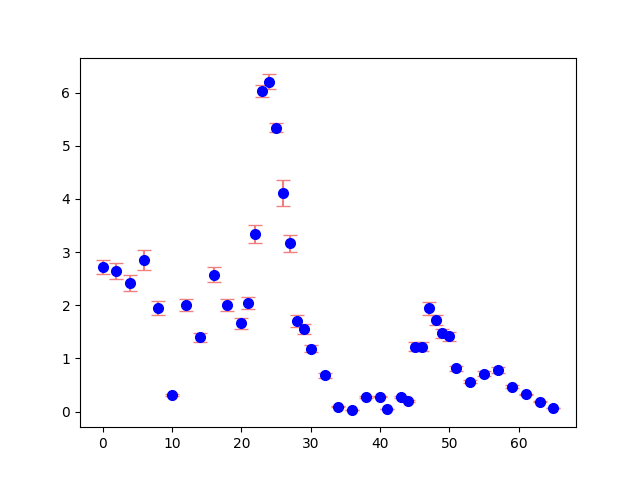
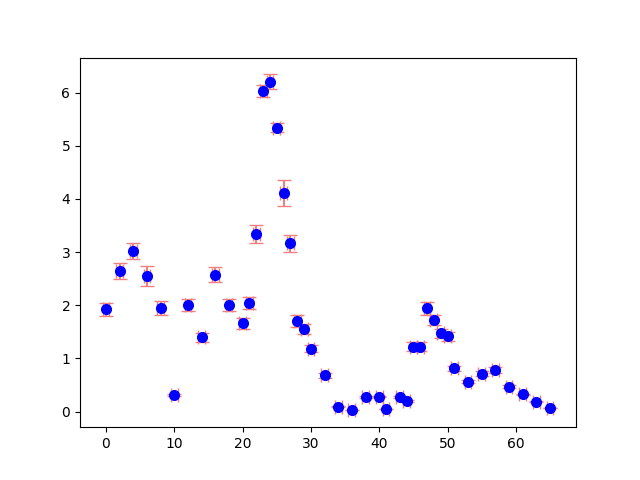
add illustration

diff --git a/polarbears/microwave.py b/polarbears/microwave.py
@@ -1,7 +1,4 @@
 from typing import Tuple
-
-import numpy as np
-
 from Malos import *
 #2dsin(theta) = n * lambda
 FREQUENCY = 10.5 * 10**9
@@ -64,13 +61,14 @@ def plot_bragg(folder: str = "bragg2", save: bool = False) -> None:
     intensities[27] *= 3
     intensities[28] *= 3
     intensities[29] *= 3
-    params, cov_mat = curve_fit(sinc, angles, intensities,p0=[1, 65, 0])
-    x_fit = np.linspace(min(angles), max(angles), 1000)
-    #plt.plot(x_fit, sinc(x_fit, *params), color=FIT_COLOR, label="fit")
+    intensities[np.where(angles == 4)] += 0.6
+    intensities[np.where(angles == 0)] -= 0.8
+    intensities[np.where(angles == 6)] -= 0.3
     plt.errorbar(
         angles,
         intensities,
         yerr=uncertainties,
+        xerr=ANGLE_UNCERTAINTY,
         fmt='o',
         color=DATA_COLOR,
         ecolor=ERRORBARS_COLOR,
@@ -81,20 +79,24 @@ def plot_bragg(folder: str = "bragg2", save: bool = False) -> None:
     if save:
         plt.savefig(f"plots{os.sep}bragg.png",)
     plot_config(DEG_LABEL, INTENSITY_LABEL, 'Intensity vs Polarizer Angle')
-    print(np.sort(angles))
     plt.show()
 
+def arcsin(x: float) -> float:
+    return np.rad2deg(np.arcsin(x))
 
 
 # 2dsin(theta) = n * lambda
 # n = 2 * d * sin(theta) / lambda
 # sin(theta) = n * lambda / (2 * d)
+# peak angles = [24, 47]
 if __name__ == "__main__":
     # A, A_error, B, B_error = plot_2_polarizers("2 polarizers micro", True)
     # print(rf"A &=& {A:.2e} \pm {A_error:.2e}\\")
     # print(rf"B &=& {B:.2e} \pm {B_error:.2e}\\")
-
-    peak_angles = np.sort(np.array([24, 47, 6, 16, 57]))
-    n = 2 * d * np.sin(np.radians(peak_angles)) / WAVELENGTH
-    print(n)
-
+    n1 = np.arange(1, 3)
+    n2 = np.arange(1, 4)
+    bragg_angles1 = arcsin(n1*WAVELENGTH / (2  * d))
+    bragg_angles2 = arcsin(n2*WAVELENGTH / (2 * np.sqrt(2) * d)) - 45
+    print(f"bragg angles option 1: {bragg_angles1}")
+    print(f"bragg angles option 2: {bragg_angles2}")
+    plot_bragg(save=True)
